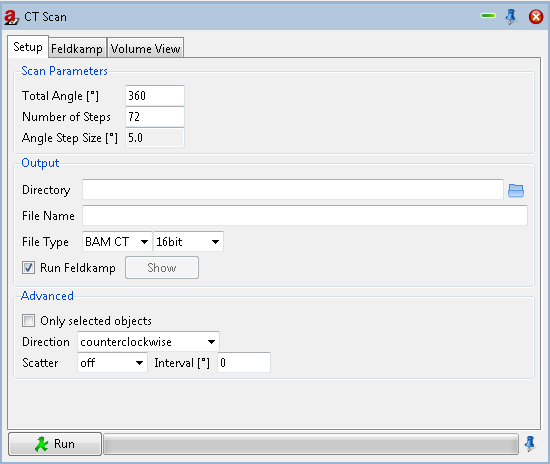
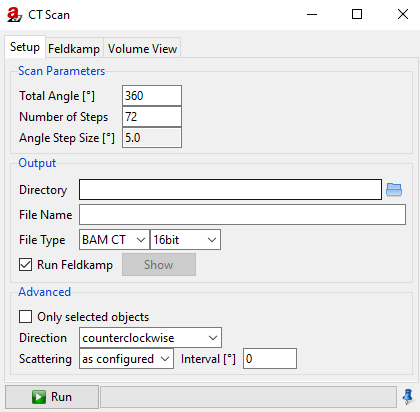
Modules - CtScan - neue Formatierung, Text- und Bildänderungen

Changed region(s): [[0.0, 0.0, 1.0, 1.0], [0.4952, 0.5534, 0.5262, 0.6117]]

diff --git a/source/modules-ctscan.rst b/source/modules-ctscan.rst
@@ -3,22 +3,24 @@
 .. _CtScanSection:
 
 CtScan
-------
+======
 
-.. 3.3	CtScan (from existing tutorial)
-.. 3.3.1	Centre of Rotation
-.. 3.3.2	Additional Settings
-.. 3.3.3	FDK Reconstruction
-
-With the CtScan module, a computerized tomography (CT) scan can be simulated. The module is accomplished by Feldkamp reconstruction and volume visualization. 
+With the **CtScan** module, a :abbr:`CT (computerized tomography)` scan can be simulated. The module is accomplished by Feldkamp reconstruction and volume visualization. 
 The simulated projections can be processed in the same way as experimental CT projections by external reconstruction programs. 
-It is recommended to use the *TIFF* file format for easy data exchange in this case.
 
-The CtScan module consists of three separate pages that can be navigated using the tabs at the top of the window (:numref:`modules-CtScan1`). 
-At bottom of module window, you can find a Run button to start or to stop the simulation and a progress bar. 
-The first two pages offer settings for the scan and for reconstruction (aRTist uses the Feldkamp algorithm for reconstruction). 
-The finished tomogram can be viewed in the scene with the help of the first (Setup) or third (Volume View) tab by clicking on the Show button. 
-In :ref:`ImageViewer <ImageViewerSection>` the sectional image can be seen with the Slice View in the third (Volume View) tab. 
+.. note::
+    
+    It is recommended to use the :abbr:`TIFF (Tagged Image File Format)` file format for easy data exchange in this case.
+
+The CtScan module consists of three separate pages that can be navigated using the tabs at the top of the window - the **Setup**, the **Feldkamp** and the **Volume View** (:numref:`modules-CtScan1`). 
+At bottom of module window, you can find a :guilabel:`Run` button to start or to :guilabel:`Stop` the simulation and a progress bar. 
+The first two pages offer settings for the scan and for reconstruction (|artist| uses the Feldkamp algorithm for reconstruction). 
+The finished tomogram can be viewed in the scene with the help of the first (**Setup**) or third (**Volume View**) tab by clicking on the :guilabel:`Show` button. 
+
+.. note::
+    
+    In :ref:`Image Viewer <ImageViewerSection>` the sectional image can be seen with the Slice View in the third (Volume View) tab. 
+
 All three pages will be explained in detail below.
 
 
@@ -34,30 +36,51 @@ All three pages will be explained in detail below.
 .. _SetupSubsection:
 
 Setup
-^^^^^
+-----
 
-**Scan Parameters**
+The :guilabel:`Setup` tab is used to configure the CT.
 
-* **Total Angle [°]**
-* **Number of Steps** and
-* **Angle Step Size [°]**
-  
-**Output**
+.. _ScanParametersSubsubsection:
 
-Choose **Directory** and **File Type** and put in a **File Name**. The **File Type** can be chosen between BAM CT or TIFFs and 16 bit or float. 
-If fields are left blank they will be filled in automatically. If you wish to start reconstruction directly after the scan is finished check the corresponding box, **Run Feldkamp**. 
-You may set the parameters for Feldkamp on the second page. Press the Run button on either one of the three pages when finished with the settings. 
+Scan Parameters
+^^^^^^^^^^^^^^^
+
+The adjustable **Scan Parameters** are **Total Angle [°]**, **Number of Steps** and
+**Angle Step Size [°]**.
+
+.. _OutputSubsubsection:
+
+Output
+^^^^^^
+
+At the **Output** choose **Directory** and **File Type** and put in a **File Name**. The **File Type** can be chosen between :class:`BAM CT` or :class:`TIFF` and :class:`16 bit` or :class:`float`. 
+
+.. note::
+
+    If fields are left blank they will be filled in automatically. 
+
+If you wish to start reconstruction directly after the scan is finished check the corresponding box, **Run Feldkamp**. 
+You may set the parameters for Feldkamp on the second page. Press the :guilabel:`Run` button on either one of the three pages when finished with the settings. 
 If you choose not to check the **Run Feldkamp** box before starting the simulation you may initiate reconstruction manually (see: :ref:`Feldkamp <FeldkampSubsection>`). 
-Click on the Show button when the simulation is finished to see the tomogram in the scene. 
-For an improved view deactivate the solid or minimize the opacity (double-click on the number of the object to change the opacity: **Parameter Panel** → **Setup Panel** → **Display**).
+Click on the :guilabel:`Show` button when the simulation is finished to see the tomogram in the scene. 
 
-**Advanced**
+.. hint::
+    
+    For an improved view deactivate the solid or minimize the opacity (double-click on the number of the object to change the opacity: **Parameter Panel** → **Setup Panel** → **Display**).
+
+.. _AdvancedSubsubsection:
+
+Advanced
+^^^^^^^^
 
 By marking **Only selected objects** you can include chosen objects of your assembly in the simulation. 
 That means the selected objects rotate and the others do not. 
-To do this, you should select the corresponding components in the :ref:`Parameter Panel <ParameterPanel>` beforehand. Select a single object by clicking on it. 
-Select two or more by holding down the Ctrl key and clicking on the other components to be included in the simulation. 
-The components are selected when they are highlighted in blue.
+
+.. todo::
+
+   To do this, you should select the corresponding components in the :ref:`Parameter Panel <ParameterPanel>` beforehand. Select a single object by clicking on it. 
+   Select two or more by holding down the :kbd:`Ctrl` key and clicking on the other components to be included in the simulation. 
+   The components are selected when they are highlighted in blue.
 
 * **Direction** is used to choose between clockwise or counterclockwise direction.
 * **Scattering** is used to choose between off or McRay scatter-attitude.
@@ -66,26 +89,30 @@ The components are selected when they are highlighted in blue.
 .. _FeldkampSubsection:
 
 Feldkamp
-^^^^^^^^
+--------
 
-Set the parameters for reconstruction on the second page (:numref:`modules-cttfeldk`). 
-Check the **Run Feldkamp** box on the first page to start reconstruction automatically after the necessary data has been acquired. 
-Otherwise, you may start reconstruction manually by pressing the **Reconstruct** button in the lower half of the Feldkamp page.
+.. _OptionsSubsubsection:
 
-* **File name**: You may load previously acquired data with a click on the file symbol or use the recently acquired data.
+Options
+^^^^^^^
 
-Enable/disable:
+Set the parameters for reconstruction on the second tab - the :guilabel:`Feldkamp` (:numref:`modules-cttfeldk`). 
+Check the **Run Feldkamp** box on the first page - the :guilabel:`Setup` - to start reconstruction automatically after the necessary data has been acquired. 
 
-* **Interpolation**
-* Use of GPU
-        * **Use multiple textures** 
-        * **Use half precision**
+.. hint::
+    
+    Otherwise, you may start reconstruction manually by pressing the **Reconstruct** button in the lower half of the :guilabel:`Feldkamp` page.
 
-Output options:
+**File name**: You may load previously acquired data with a click on the file symbol |16x16_document-open-folder| or use the recently acquired data.
 
-* **File type**: 
-        * BAM CT, VTK, RAW
-        * 8bit, 16bit, 32bit, float
+Enable or disable **Interpolation** or/and the **Use of :abbr:`GPU (graphics processing unit)` **, with **Use multiple textures** or/and **Use half precision**.
+
+.. _OutputFeldSubsubsection:
+
+Output
+^^^^^^
+
+You can choose between different **File type**: :class:`BAM CT`, :class:`VTK` and :class:`RAW` as :class:`8bit`, :class:`16bit`, :class:`32bit` or :class:`float`.
 
 .. _modules-cttfeldk:
 .. figure:: pictures/modules-cttfeldk.png
@@ -94,14 +121,17 @@ Output options:
 
     CtScan: Parameters for reconstruction.
 
+.. _VolumeViewSubsection:
+
 Volume View
-^^^^^^^^^^^
-With the tab Volume View (:numref:`modules-cttvv`) it is possible to show sectional image of the finished tomogram in :ref:`ImageViewer <ImageViewerSection>` directly after reconstruction. 
-Alternatively, you may load previously acquired data. Supported file types are: *.bd*, *.raw*, *.bin*, *.vtk*.
-Press the **Show** button on this page or the first page to start the calculation. This will take a few seconds. 
+-----------
+
+With the tab :guilabel:`Volume View` (:numref:`modules-cttvv`) it is possible to show sectional image of the finished tomogram in :ref:`Image Viewer <ImageViewerSection>` directly after reconstruction. 
+Alternatively, you may load previously acquired data. Supported file types are: :code:`.bd`, :code:`.raw`, :code:`.bin`, :code:`.vtk`.
+Press the :guilabel:`Show` button on this page or the first page to start the calculation. This will take a few seconds. 
 Then you can view the 3D-Scan of the part in the scene. Deactivate the part or minimize the opacity for an improved view of the 3D-Scan.
-With the option **Slice View** → **Show plane** a sectional image of the part for the respectivly axis (**X**, **Y** or **Z**) will appear in :ref:`ImageViewer <ImageViewerSection>`. 
-If **Show slice** is activated, borders of the object can be seen in the plane. Choose an axis and move the plane with the slider to see a sectional image of the part.
+With the option **Slice View** → **Show plane** a sectional image of the part for the respectivly axis (**X**, **Y** or **Z**) will appear in :ref:`Image Viewer <ImageViewerSection>`. 
+If **Show slice** is activated, borders of the object can be seen in the plane. Choose an **Axis** and move the plane with the slider to see a sectional image of the part.
 
 Settings for Volume View:
 
